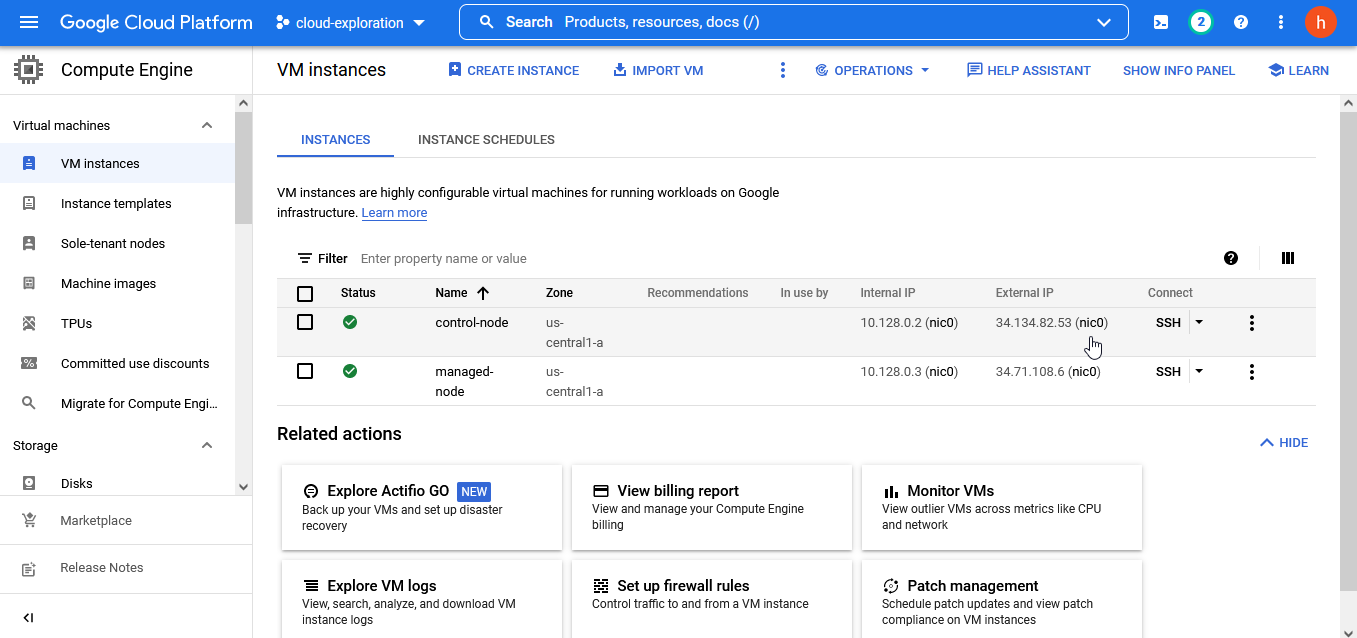
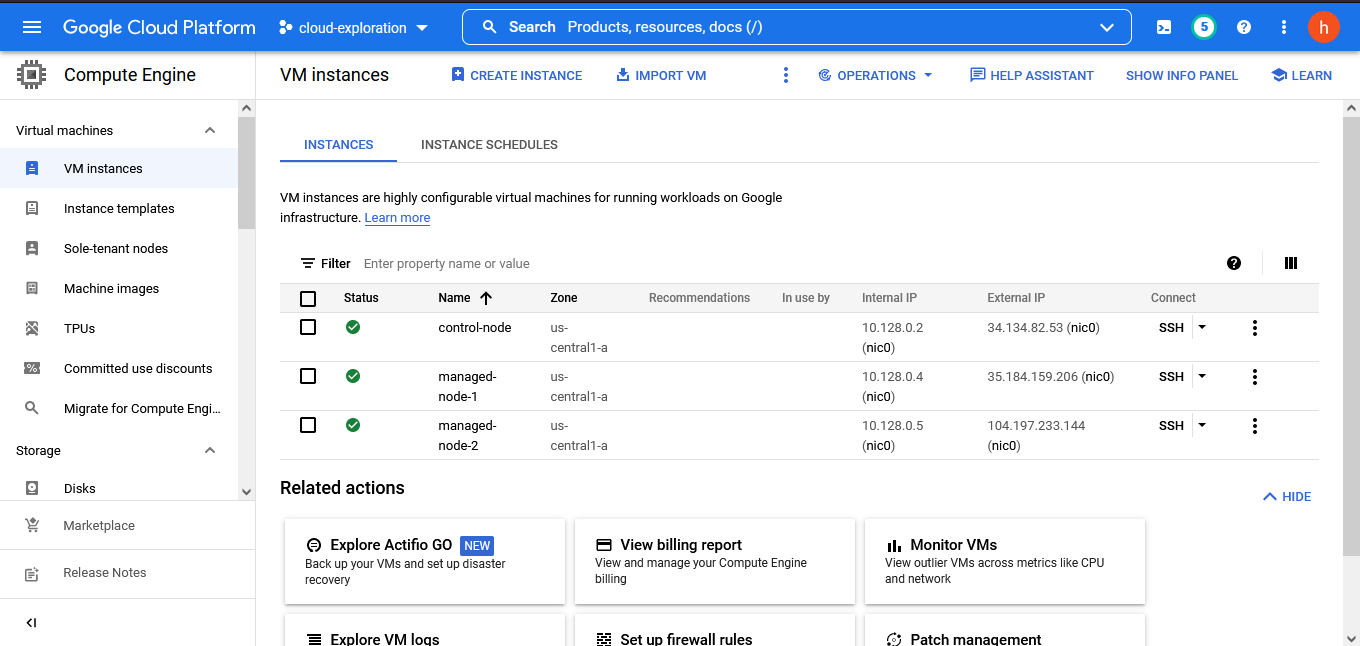
Ansible

diff --git a/articles/ansible.md b/articles/ansible.md
@@ -1,0 +1,170 @@
+# Chapter 2 : Ansible
+
+Ansible adalah
+
+Keunggulan dari Ansible adalah
+
+Pada kesempatan ini, kita akan membuat sebuah script Ansible yang dapat memanipulasi beberapa mesin kosong sehingga dapat mengeksekusi web app To-Do App yang sudah dibuat sebelumnya.
+
+## Part 0. Instalasi Ansible
+
+Ansible membagi beberapa mesin menjadi **Control Node** dan **Managed Node**. **Control Node** bertugas untuk menjadi basis dari Ansible untuk memanipulasi semua **Managed Node**. Untuk itu, Ansible cukup hanya diinstall dalam **Control-Node**.
+
+Untuk melakukan instalasi Ansible, masukan perintah berikut ini
+
+    $ sudo apt update
+    $ sudo apt install software-properties-common
+    $ sudo add-apt-repository --yes --update ppa:ansible/ansible
+    $ sudo apt install ansible
+
+Ansible menggunakan SSH sebagai basis untuk melakukan koneksi pada **Managed-Node**. Oleh karena itu, **Control-Node** harus memiliki private key yang dapat diguunakan untuk melakukan koneksi tersebut.
+
+Pertama, masukkan private key anda dalam `~/.ssh/id_rsa`. Kemudian, masukkan perintah berikut ini
+
+    $ eval `ssh-agent -s`
+    $ chmod 600 ~/.ssh/id_rsa
+    $ ssh-add ~/.ssh/id_rsa
+
+Untuk mengecek, anda bisa lakukan perintah `ssh MANAGED_NODE_IP` untuk memastikan bahwa private key sudah dipasang dengan benar.
+
+Setelah itu, untuk memberi tahu Ansible apa saja **Managed Node** yang kita miliki, buka `/etc/ansible/hosts` dan tambahkan semua IP dari **Managed Node** dalam file tersebut. Juga tambahkan `[ManagedNode]` di atas dari daftar IP tersebut. Dalam contoh ini, tulisan yang ditambahkan adalah seperti berikut.
+
+```
+[ManagedNode]
+35.184.159.206
+104.197.233.144
+```
+
+Pada akhirnya, untuk mengecek koneksi Ansible secara keseluruhan, dapat dilakukan perintah
+
+    $ ansible all -m ping
+
+Jika private key anda memiliki password. Anda mungkin diharuskan untuk memasukkan password untuk seluruh mesin yang ada.
+
+Jika instalasi berhasil, pembaca akan melihat hasil sebagaimana berikut
+
+![Ansible Ping](../images/ansible_ping.png)
+
+Selamat, anda sudah berhasil menginstall dan menggunakan Ansible!
+
+## Part 1. Instalasi Docker dalam Ansible Playbook 
+
+Untuk memberikan perintah sederhana kepada masing-masing **Managed Node** dapat dituliskan perintah `ansible -m <perintah>` seperti perintah `ping` pada contoh sebelumnya. Namun untuk melaksanankan perintah yang jauh lebih kompleks dan panjang, dibutuhkan **Ansible Playbook** yang dapat menggunakan seluruh perintah yang disatukan dalam sebuah file YAML dan langsung mengeksekusinya. Oleh karena itu, untuk melakukan tahap berikutnya, dibutuhkan sebuah file YAML yang merepresentasikan seluruh perintah yang dibutuhkan.
+
+Pertama-tama buatlah file bernama `docker_playbook.yaml`. Kemudian, pada awal file, tambahkan teks berikut
+
+```
+---
+- hosts: ManagedNode
+  become: true
+  vars:
+  - default_user: USER_NAME_ANDA
+  tasks:
+```
+
+File YAML tersebut harus diawali dengan `---`. Kemudian, kita tambahkan `- hosts: ManagedNode` untuk memastikan bahwa seluruh perintah dibawah akan dieksekusi pada seluruh IP yang terdaftar sebagai `ManagedNode`. Dictionary `become: true` berarti bahwa seluruh perintah ini dieksekusi sebagai admin atau dengan kata lain seakan-akan dieksekusi dibawah `sudo`. Ditambahkan juga sebuah variabel bernama `default_user` yang bisa anda isi dengan username anda sendiri. Pada akhirnya, dictionary 'tasks' akan berisi seluruh perintah yang akan kita eksekusi. Perlu diperhatikan bahwa untuk seluruh teks yang selanjutnya akan dituliskan harus ditambahkan satu tab agar alignment nya sesuai dengan `tasks :`.
+
+Task pertama yang akan kita tuliskan adalah instalasi dari program-program yang dibutuhkan. Hal ini bisa dibilang merupakan konversi dari [bagian ini](docker.md#update-apt-dan-install-requirement) yang sudah dituliskan sebelumnya. Task untuk menginstall requirement tersebut dan beberapa hal lain yang mungkin dibutuhkan dapat dituliskan sebagaimana berikut ini
+
+```
+- name: Install required system packages
+  apt:
+    pkg:
+    - apt-transport-https
+    - ca-certificates
+    - curl
+    - software-properties-common
+    - python3-pip
+    - virtualenv
+    - python3-setuptools
+    state: latest
+    update_cache: true
+```
+
+Kemudian, untuk menambahkan kunci GPG Docker seperti dalam [bagian ini](docker.md#tambah-kunci-gpg-docker), maka teks untuk hal tersebut berbentuk seperti ini
+
+```
+- name: Add Docker GPG apt Key
+  apt_key:
+    url: "https://download.docker.com/linux/{{ ansible_distribution | lower }}/gpg"
+    state: present
+```
+
+Akhirnya untuk [menambah repository yang dibutuhkan](docker.md#tambah-repository), 
+
+```
+- name: Add Docker Repository
+  apt_repository:
+    repo: "deb https://download.docker.com/linux/{{ ansible_distribution | lower }} \
+    {{ ansible_distribution_release }} stable"
+    state: present
+    filename: docker
+```
+
+Pada akhirnya kita dapat [menginstall docker](docker.md#install-docker) dengam menggunakan task ini
+
+```
+- name: Install Docker
+  apt:
+    name:
+    - docker-ce
+    - docker-ce-cli
+    - containerd.io
+    - docker-compose-plugin
+    state: latest
+    update_cache: true
+```
+
+## Part 2. Pull dan Run Docker Container dalam Ansible Playbook
+
+Dengan Docker sudah terinstall dengan baik dalam **Managed Node**, sekarang kita dapat menggunakan Docker untuk melakukan `pull` dan `run` image yang kita inginkan. Namun terlebih dahulu dibutuhkan instalasi Python library yang dibutuhkan untuk manipulasi Docker setelahnya. Hal itu dapat dilakukan dengan task berikut ini
+
+```
+- name: Install Docker Module for Python
+  pip:
+    name: docker
+```
+
+Sekarang kita lakukan [pull image](docker.md#part-1-pull-image-from-registry) `USER_NAME_ANDA/getting-started` yang sudah dimiliki. Hal ini dapat dilakukan dengan task seperti berikut ini
+
+```
+- name: Pull Docker Repository
+  docker_image:
+    name: "{{ default_user }}/getting-started"
+    source: pull
+```
+
+Perhatikan bahwa `default_user` berisi username yang sudah dimasukkan sebelumnya.
+
+Pada akhirnya kita dapat melakukan [`run` terhadap image tersebut kedalam sebuah container](docker.md#part-3-run-a-container). Task untuk melakukan hal tersebut adalah
+
+```
+- name: Run Getting-Started Container
+  docker_container:
+    name: "getting-started"
+    image: "{{ default_user }}/getting-started"
+    state: started
+    ports: "3000:3000"
+    restart_policy: "unless-stopped"
+  register: docker_info
+```
+
+Dapat diperhatikan bahwa task ini pada dasarnya merupakan konversi dari perintah `docker run -dp 3000:3000 USER_NAME_ANDA/getting-started` yang sudah dilakukan sebelumnya. Namun, ada satu tambahan menarik yaitu dictionary `restart_policy: "unless-stopped"` yang bertujuan agar container ini akan langsung direstart ketika mesin melakukan reboot. Pada akhirnya laporan mengenai container yang sudah dibuat akan tersimpan dalam variable `docker_info`.
+
+File lengkap YAML yang sudah dituliskan dapat dilihat dalam file [docker_playbook.yaml](../resources/docker_playbook.yaml) yang sudah penulis sediakan. Untuk mengeksekusi playbook ini, dapat dilakukan perintah
+
+    $ ansible-playbook docker_playbook.yaml
+
+Sekali lagi anda mungkin butuh menuliskan password untuk setiap mesin yang ada.
+
+Jika seluruh task berhasil dilakukan, maka anda akan melihat hasil seperti berikut ini
+
+![Ansible Success](../images/ansible_success.png)
+
+Anda dapat mengecek langsung hasil dari ansible playbook ini dengan melakukan SSH kepada **Managed Node** yang ada dan kemudian melihat perintah `sudo docker ps`. 
+
+![Ansible Docker PS](../images/ansible_docker_ps.png)
+
+Selamat, anda sudah berhasil untuk menggunakan Ansible Playbook untuk mengeksekusi perintah dalam file YAML!
+
+## Next, [Kubernetes](kubernetes.md)!

diff --git a/readme.md b/readme.md
@@ -1,6 +1,6 @@
 # Cloud Tools Exploration
 
-Selamat datang dalam kumpulan artikel mengenai ekplorasi beberapa Cloud Technology yang sudah umum digunakan. Dalam kesempatan ini, beberapa Cloud Technology yang akan dipelajari diantaranya adalah Docker, Ansible, dan Kubernetes. Penulis berharap bahwa pembaca dapat mengikuti dan mendapatkan pengetahuan baru yang dapat berguna mengenai tools-tools ini. Pembaca dapat memulai eksplorasi melalui [link ini](articles/server.md) atau dengan membuka artikel yang sudah didaftarkan dibawah.
+Selamat datang dalam kumpulan artikel mengenai ekplorasi beberapa Cloud Technology yang sudah umum digunakan. Dalam kesempatan ini, beberapa Cloud Technology yang akan dipelajari diantaranya adalah Docker, Ansible, dan Kubernetes. Penulis berharap bahwa pembaca dapat mengikuti dan mendapatkan pengetahuan baru yang dapat berguna mengenai tools-tools ini. Pembaca dapat memulai eksplorasi melalui [link ini](articles/machine.md) atau dengan membuka artikel yang sudah didaftarkan dibawah.
 
 ## Daftar Isi
 

diff --git a/articles/machine.md b/articles/machine.md
@@ -16,7 +16,7 @@ Untuk kesempatan ini, penulis tidak mengubah setting apapun kecuali mengubah OS 
 
 Setelah itu, pembaca dapat mengscroll ke bawah dan menekan tombol **Create** untuk membuat sebuah VM.
 
-Dalam kesempatan ini, penulis membuat dua buah VM masing-masing bernama **Control-Node** dan **Managed-Node**
+Dalam kesempatan ini, penulis membuat tiga buah VM masing-masing bernama **Control-Node**, **Managed-Node-1**, dan **Managed-Node-2**.
 
 ![Two VM](../images/server_created.png)
 

diff --git a/articles/kubernetes.md b/articles/kubernetes.md
@@ -1,0 +1,1 @@
+# Chapter 3 : Kubernetes
